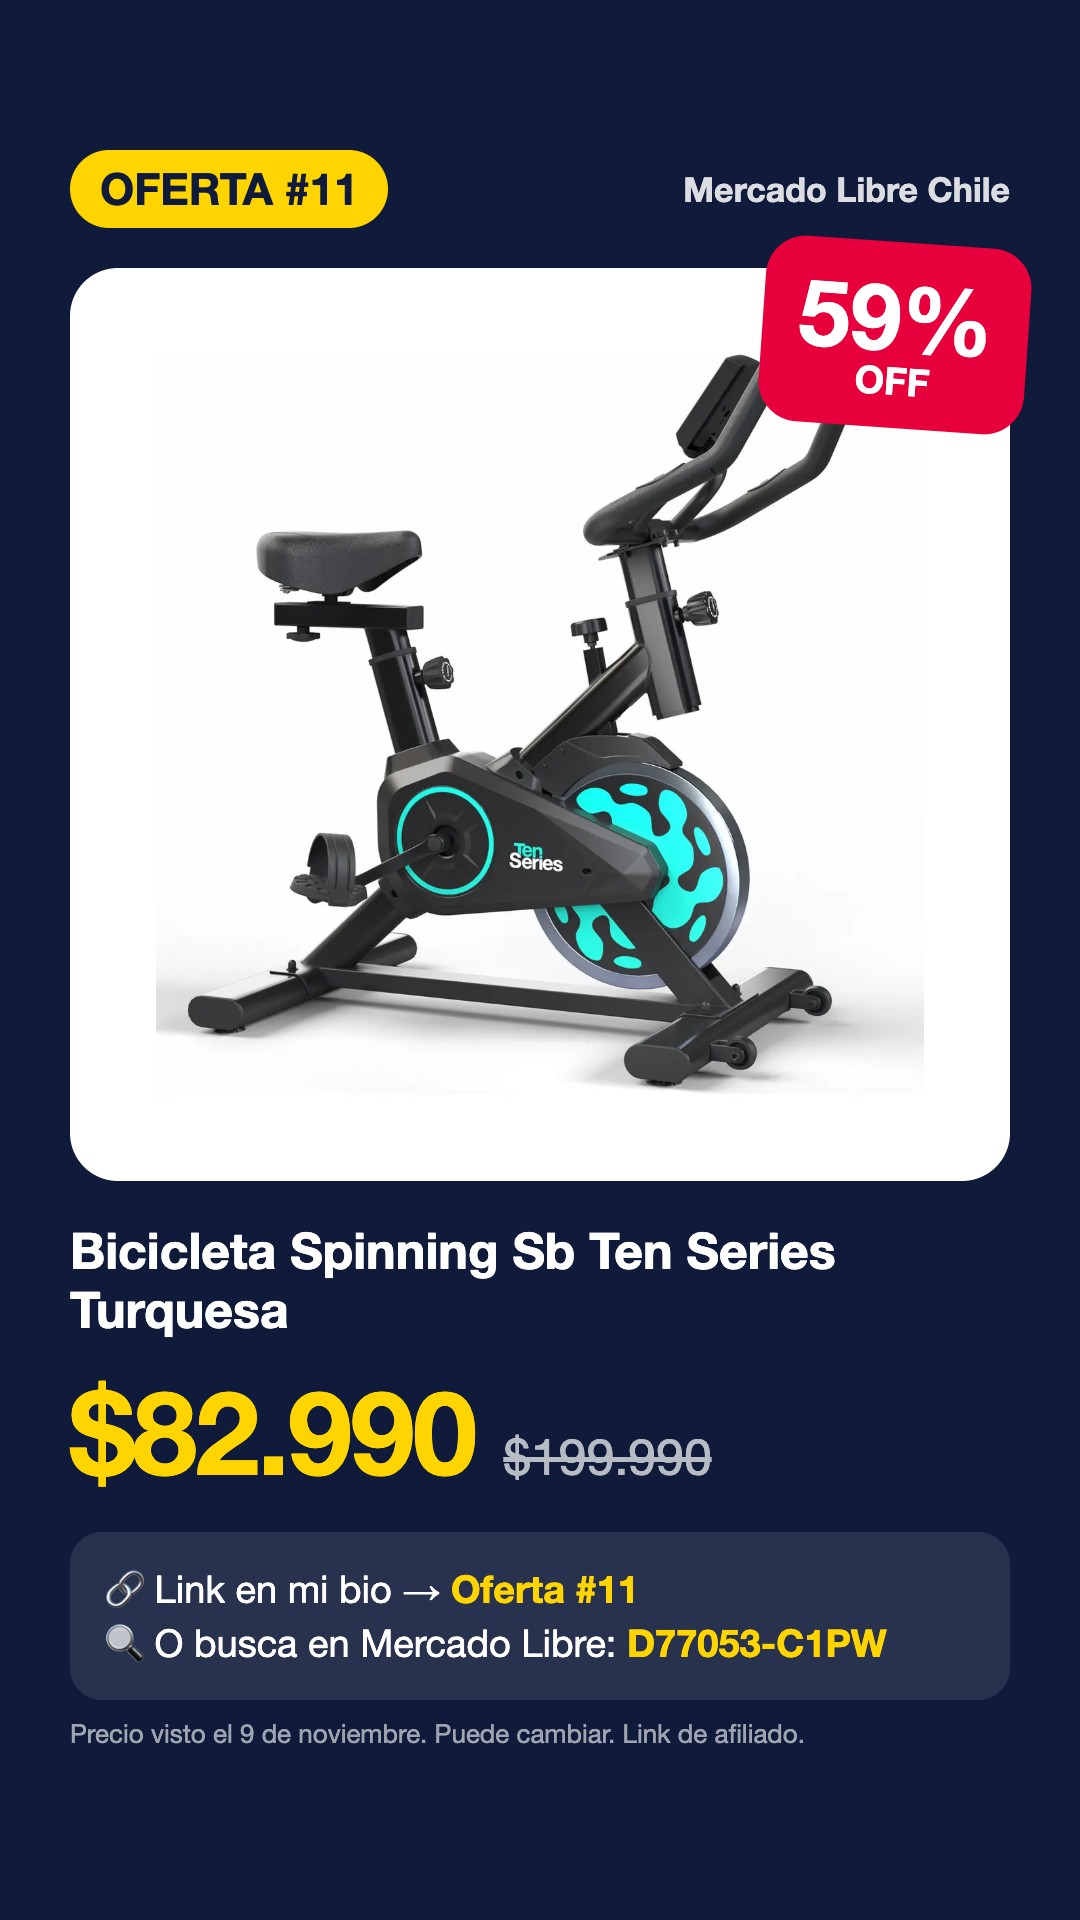
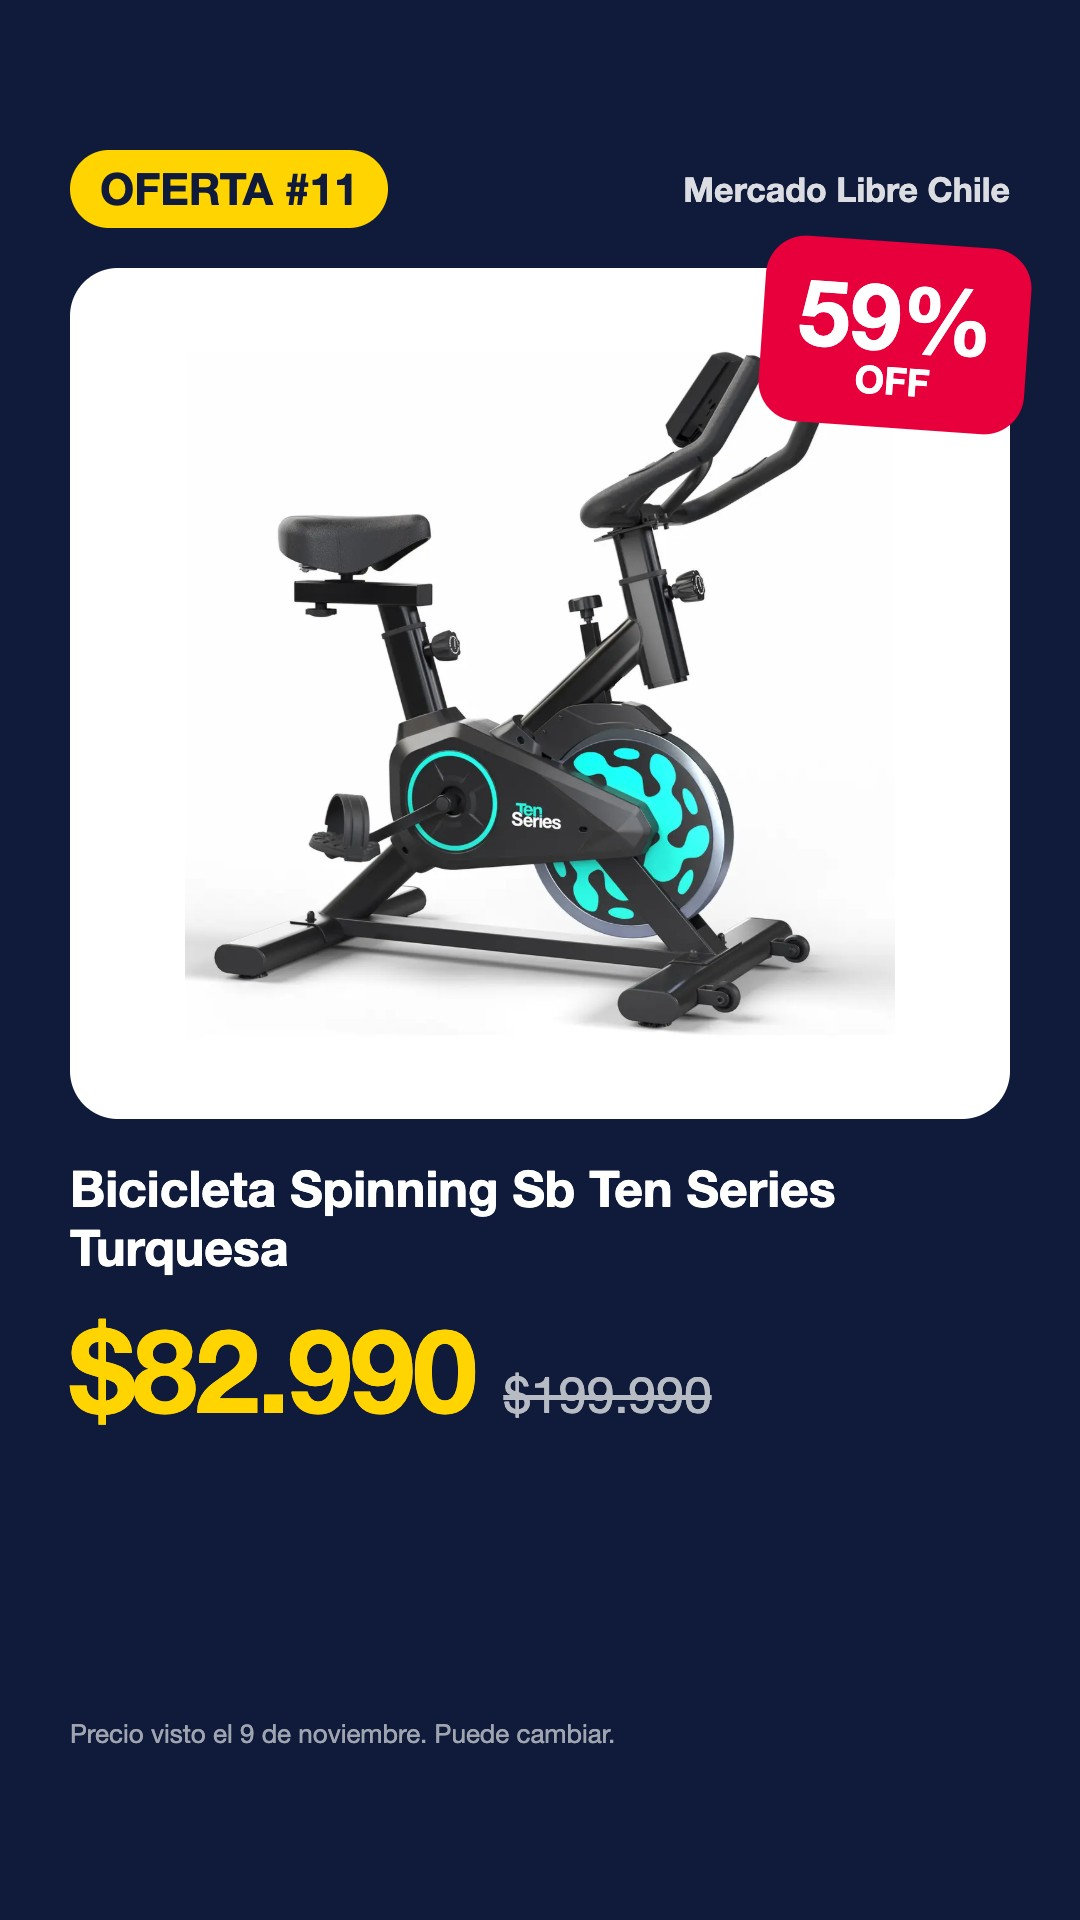
Imágenes sin código ni link en bio; espacio libre para el sticker de link

Changed region(s): [[0.0611, 0.1875, 0.9472, 0.7812], [0.0917, 0.8125, 0.825, 0.9062]]

diff --git a/docs/plan.md b/docs/plan.md
@@ -10,6 +10,8 @@
 - El repositorio es público: github.com/RodrigoAFlores/bot-ofertas-ml. Las claves nunca se suben.
 - Más adelante: videos con IA hechos con código (reels).
 
+- (2026-11-09) Las imágenes no llevan código de búsqueda, ni "link en mi bio", ni la frase "link de afiliado". En las historias queda un espacio libre bajo el precio para el sticker de link, que lleva el link de afiliado.
+
 ## Por qué este camino
 - La API de búsqueda de ML responde 403, tanto con token de app como de usuario. ML la cerró.
 - La web pública de ML pide verificación anti-bot a los scripts, y no la vamos a saltar.
